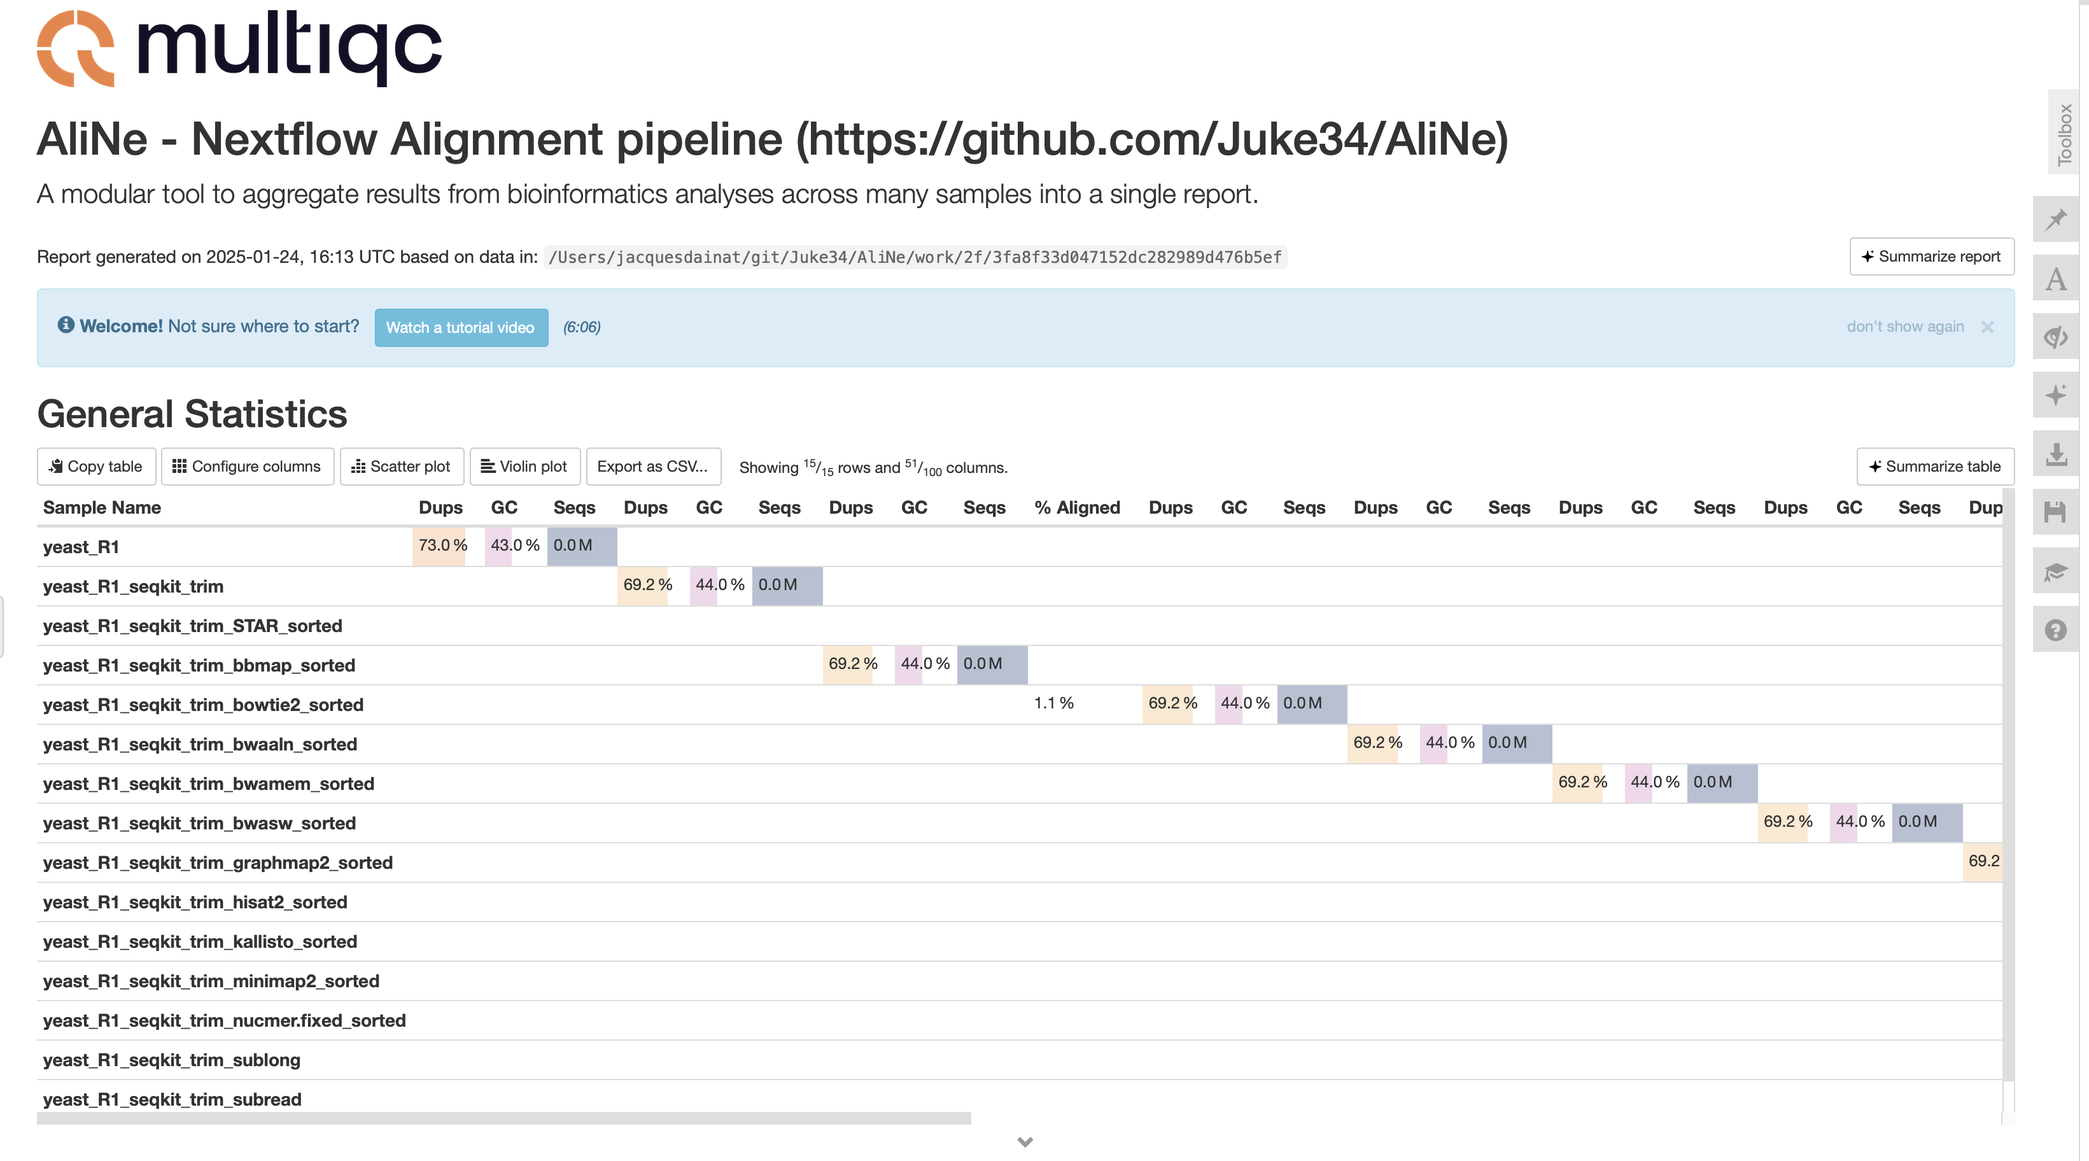
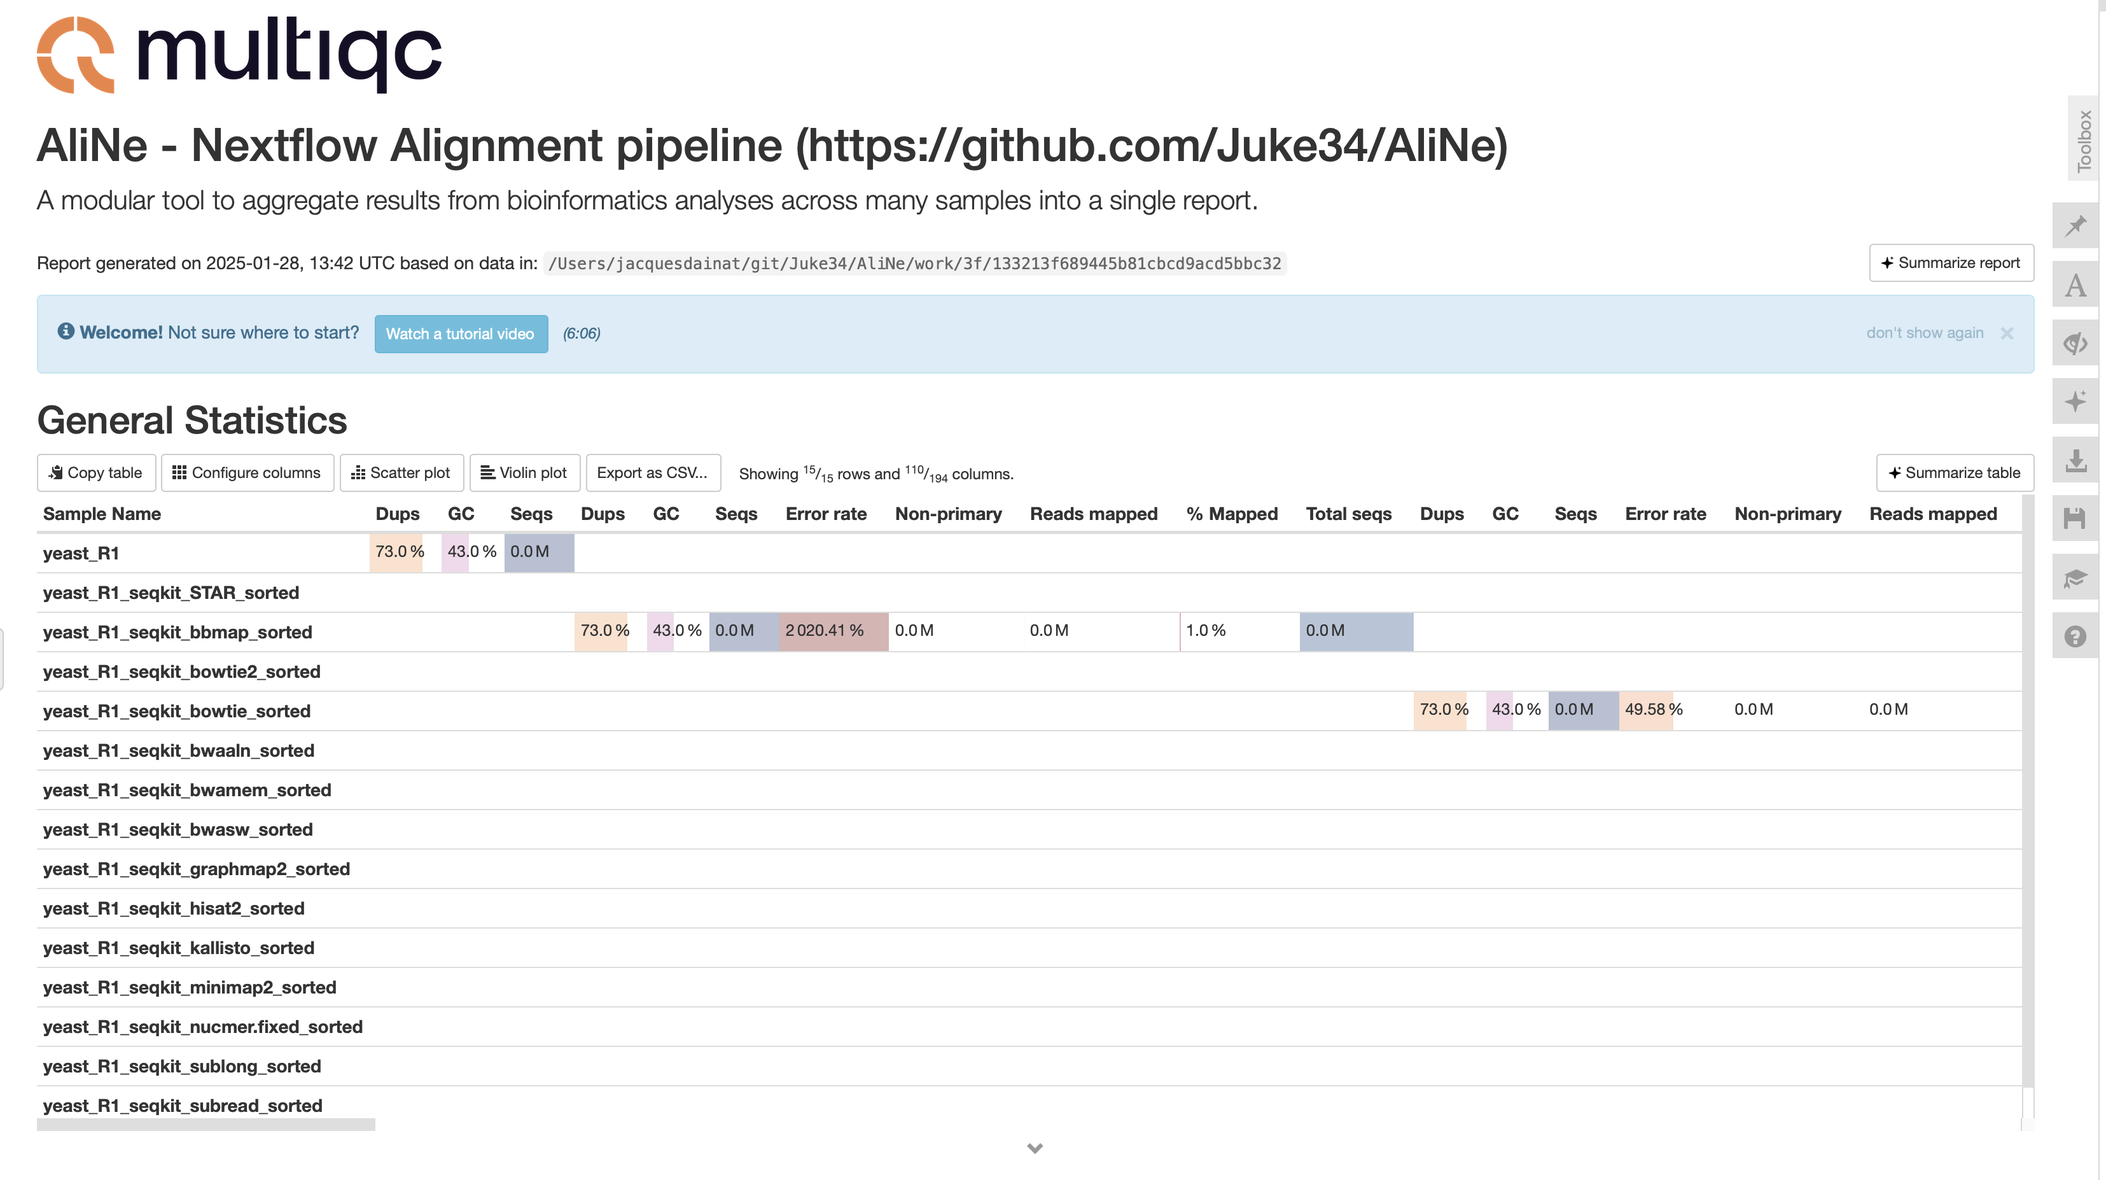
#20 add samtools stats and provide more information about statistics

diff --git a/README.md b/README.md
@@ -222,7 +222,7 @@ Please follow the instructions at the [Singularity website](https://docs.sylabs.
 You can first check the available options and parameters by running:
 
 ```bash
-nextflow run Juke34/AliNe -r v1.0.1 --help
+nextflow run Juke34/AliNe -r v1.1.0 --help
 ```
 
 ### Profile
@@ -234,7 +234,7 @@ To run the workflow you must select a profile according to the container platfor
 The command will look like that: 
 
 ```bash
-nextflow run Juke34/AliNe -r v1.0.1 -profile docker <rest of paramaters>
+nextflow run Juke34/AliNe -r v1.1.0 -profile docker <rest of paramaters>
 ```
 
 Another profile is available (/!\\ actually not yet implemented):
@@ -244,7 +244,7 @@ Another profile is available (/!\\ actually not yet implemented):
 The use of the `slurm` profile  will give a command like this one:
 
 ```bash
-nextflow run Juke34/AliNe -r v1.0.1 -profile singularity,slurm <rest of paramaters>
+nextflow run Juke34/AliNe -r v1.1.0 -profile singularity,slurm <rest of paramaters>
 ```
 
 ### Example
@@ -254,13 +254,15 @@ Here, we use the docker container platform, remote read and genome files, specif
 
 ```bash
 nextflow run Juke34/AliNe \
-  -r v1.0.1 \
+  -r v1.1.0 \
   -profile docker \
   --reads https://github.com/Juke34/AliNe/raw/refs/heads/main/test/illumina/yeast_R1.fastq.gz \
   --genome https://raw.githubusercontent.com/Juke34/AliNe/refs/heads/main/test/yeast.fa \
   --read_type short_single \
   --aligner bbmap,bowtie2,bwaaln,bwamem,bwasw,graphmap2,hisat2,minimap2,ngmlr,nucmer,star,subread,sublong \
   --trimming_fastp \
+  --fastqc \
+  --samtools_statss \
   --star_options "--genomeSAindexNbases 9"
 ```
 
@@ -271,25 +273,25 @@ Test data are included in the AliNe repository in the `test` folder.
 Test with short single reads:
 
 ```bash
-nextflow run -profile docker,test_illumina_single Juke34/AliNe -r v1.0.1
+nextflow run -profile docker,test_illumina_single Juke34/AliNe -r v1.1.0
 ```
 
 Test with short paired reads:
 
 ```bash
-nextflow run -profile docker,test_illumina_paired Juke34/AliNe -r v1.0.1
+nextflow run -profile docker,test_illumina_paired Juke34/AliNe -r v1.1.0
 ```
 
 Test with ont reads:
 
 ```bash
-nextflow run -profile docker,test_ont Juke34/AliNe -r v1.0.1
+nextflow run -profile docker,test_ont Juke34/AliNe -r v1.1.0
 ```
 
 Test with pacbio reads:
 
 ```bash
-nextflow run -profile docker,test_pacbio Juke34/AliNe -r v1.0.1
+nextflow run -profile docker,test_pacbio Juke34/AliNe -r v1.1.0
 ```
 
 On success you should get a message looking like this:
@@ -329,6 +331,7 @@ On success you should get a message looking like this:
     Extra steps 
         --trimming_fastp            run fastp for trimming (default: false)
         --fastqc                    run fastqc on raw and aligned reads (default: false)
+        --samtools_stats            run samtools stats on aligned reads (default: false)
         --multiqc_config            path to the multiqc config file (default: config/multiqc_conf.yml)
 
     Aligner specific options
@@ -389,6 +392,12 @@ Here the description of typical ouput you will get from AliNe:
     │       ├── sample1_seqkit_trim_aligner2_sorted.log       # Contains the log of the aligner
     │       └── sample1_seqkit_trim_aligner2_sorted.bam       # Sorted bam output
     │
+    ├─── samtools_stats                                       # Samtools stats folder
+    │   ├── aligner1                                          # Folder with Samtools stats result for aligner1
+    │   │   └── sample1_seqkit_trim_aligner1_sorted.txt       # Samtools stats file for sample1
+    │   └── aligner2                                          # Folder with Samtools stats result for aligner2
+    │       └── sample1_seqkit_trim_aligner2_sorted.txt       # Samtools stats file for sample1
+    |
     ├── fastqc                                                # FastQC statistics folder
     │   ├── raw                                               # Folder with FastQC result for raw data
     │   │   └── fastqc_sample1_raw_logs                       # Folder with FastQC result for raw sample1 data
@@ -414,9 +423,9 @@ Here the description of typical ouput you will get from AliNe:
 
 ### Statistics
 
-In order to compare several aligner output you should activate the `--fastqc` parameter. AliNe will run the FastQC program for each output file, thereafter all FastQC file will be gathered in an html file using MultiQC. The resulting file called `multiqc_report.html` can be found in <outdir>/MultiQC ( <outdir> by default is called `alignment_results` and can be setup using `--outdir` AliNe parameter).
+#### FastQC
 
-To compare the output of multiple aligners, you should enable the `--fastqc` parameter. AliNe will execute the FastQC program for each output file. Subsequently, all FastQC reports will be gathered into an HTML file using MultiQC. The resulting file, named `multiqc_report.html`, can be found in the `<output_directory>/MultiQC directory`. By default, the output directory is named `alignment_results`, but this can be customized using the `--outdir` parameter in AliNe.
+To compare the output of multiple aligners, you can enable the `--fastqc` parameter. AliNe will execute the FastQC program for each output file. Subsequently, all FastQC reports will be gathered into an HTML file using MultiQC. The resulting file, named `multiqc_report.html`, can be found in the `<output_directory>/MultiQC directory`. By default, the output directory is named `alignment_results`, but this can be customized using the `--outdir` parameter in AliNe.
 
 FastQC collects the following information:  
   * Sequence Counts
@@ -430,9 +439,27 @@ FastQC collects the following information:
   * Overrepresented sequences
   * Adapter Content
 
+Among these metrics, "Sequence Duplication Levels", "Per Sequence GC Content" and "Sequence Count" are reported at the top of the `multiqc_report.html` file in a table called `General Statistics` as "% Dups", "%GC" and "M Seqs" accordingly ([see below](#general-statistics)).
+
+
+#### Samtools stats
+
+To compare the output of multiple aligners, you can enable the `--samtools_stats` parameter. AliNe will execute the Samtools stats program for each alignment file. Subsequently, all Samtools stats output will be gathered into an HTML file using MultiQC. The resulting file, named `multiqc_report.html`, can be found in the `<output_directory>/MultiQC directory`. By default, the output directory is named `alignment_results`, but this can be customized using the `--outdir` parameter in AliNe.
+
+Samtools stats produces comprehensive statistics, see [here](http://www.htslib.org/doc/samtools-stats.html) for details.
+
+Among all the produceds metrics, "Error rate", "Non-primary", "Reads mapped", "% Mapped", "Total seqs"" are reported at the top of the `multiqc_report.html` file in a table called `General Statistics` ([see below](#general-statistics)).  
+These fields correspond to the following information : 
+
+  * Error rate - The percentage of mismatches between the aligned reads and the reference genome (mismatches (NM) / bases mapped (CIGAR))
+  * Non-primary - Non-primary alignments is the number of reads that are aligned to multiple locations in the reference genome.
+  * Reads mapped - The number of reads that are successfully aligned to the reference genome.
+  * % Mapped - The percentage of total reads that are mapped. Calculated from reads mapped / total sequences
+  * Total seqs - The total number of reads in the BAM
+
 #### General Statistics
 
-"Sequence Duplication Levels", "Per Sequence GC Content" and "Sequence Count" are reported at the top of the `multiqc_report.html` file in a table called `General Statistics` as "% Dups", "%GC" and "M Seqs" accordingly (see below).
+Some information produced via FastQC or Samtools stats are reported at the top of the `multiqc_report.html` file in a table called `General Statistics` (see below):
 
 <img src="img/multiqc.png" />
 
@@ -443,61 +470,66 @@ In order to facilitate the reading of this `General Statistics` you can export t
 install.packages("dplyr")
 install.packages("stringr")
 install.packages("tidyr")
+install.packages("knitr")
 
 # Load necessary libraries
 library(dplyr)
 library(stringr)
 library(tidyr)
+library(knitr)
 
 # Read the TSV file
 file_path <- "general_stats_table.tsv"
 df <- read.delim(file_path, check.names = FALSE)
 
+# clean sample name to remove suffix _*_samtoolsstats
+df$Sample <- df$Sample |> stringr::str_remove_all("_\\d+_samtoolsstats")
+
 # sample name as row name
 rownames(df) <- df$Sample
 
 # remove Sample column and clean up the column names
-tmp <- cbind(ID = rownames(df), stack(df[-1])) |> 
+tableout <- cbind(ID = rownames(df), stack(df[-1])) |> 
   transform(ind = as.character(ind) |> stringr::str_remove_all("\\.\\d+"))
 
 # remove na values
-tmp <- tmp[!is.na(tmp$values),]
+tableout <- tableout[!is.na(tableout$values),]
 # remove . values
-tmp$values <- tmp$values |> stringr::str_remove_all("^\\.$")
+tableout$values <- tableout$values |> stringr::str_remove_all("^\\.$")
 
 # pivot data
-tmp <- tmp |> pivot_wider(id_cols = ID , names_from = ind, values_from = values, 
+tableout <- tableout |> pivot_wider(id_cols = ID , names_from = ind, values_from = values, 
               values_fn = \(x) paste(unique(x), collapse = ""))
 
-# print only 4 first columns
-tmp[1:4]
+# print with nice output
+knitr::kable(tmp)
 ```
 
 You will get a table similar to this one:  
 
 ```
-   ID                                       Dups              GC    Seqs                  
-   <chr>                                    <chr>             <chr> <chr>                 
- 1 yeast_R1                                 73.01             43    0.01                  
- 2 yeast_R1_seqkit_trim                     69.21661409043114 44    0.007607999999999999  
- 3 yeast_R1_seqkit_trim_STAR_sorted         69.54090258811289 44    0.007689              
- 4 yeast_R1_seqkit_trim_bbmap_sorted        69.21661409043114 44    0.007607999999999999  
- 5 yeast_R1_seqkit_trim_bowtie2_sorted      69.21661409043114 44    0.007607999999999999  
- 6 yeast_R1_seqkit_trim_bwaaln_sorted       69.21661409043114 44    0.007607999999999999  
- 7 yeast_R1_seqkit_trim_bwamem_sorted       69.18933123111286 44    0.007611              
- 8 yeast_R1_seqkit_trim_bwasw_sorted        69.23279033105622 44    0.007612              
- 9 yeast_R1_seqkit_trim_graphmap2_sorted    69.21661409043114 44    0.007607999999999999  
-10 yeast_R1_seqkit_trim_hisat2_sorted       69.21661409043114 44    0.007607999999999999  
-11 yeast_R1_seqkit_trim_kallisto_sorted     69.21661409043114 44    0.007607999999999999  
-12 yeast_R1_seqkit_trim_minimap2_sorted     69.63058976020739 44    0.007715              
-13 yeast_R1_seqkit_trim_nucmer.fixed_sorted 64.70588235294117 42    0.00016999999999999999
-14 yeast_R1_seqkit_trim_sublong             53.23343848580442 44    0.007607999999999999  
-15 yeast_R1_seqkit_trim_subread             69.21661409043114 44    0.007607999999999999  
+|ID                                  |Dups              |GC |Seqs                 |Error rate          |Non-primary            |Reads mapped            |% Mapped           |Total seqs |
+|:-----------------------------------|:-----------------|:--|:--------------------|:-------------------|:----------------------|:-----------------------|:------------------|:----------|
+|yeast_R1                            |73.01             |43 |0.01                 |                    |                       |                        |                   |           |
+|yeast_R1_seqkit_STAR_sorted         |73.22686241444302 |43 |0.010081             |0                   |0.00008099999999999999 |0.000096                |0.96               |0.01       |
+|yeast_R1_seqkit_bbmap_sorted        |73.01             |43 |0.01                 |2020.4080000000001  |0                      |0.000099                |0.9900000000000001 |0.01       |
+|yeast_R1_seqkit_bowtie2_sorted      |73.01             |43 |0.01                 |11.46977            |0                      |0.00008599999999999999  |0.86               |0.01       |
+|yeast_R1_seqkit_bowtie_sorted       |73.01             |43 |0.01                 |49.57576            |0                      |0.000032999999999999996 |0.33               |0.01       |
+|yeast_R1_seqkit_bwaaln_sorted       |73.01             |43 |0.01                 |0                   |0                      |0                       |0                  |0.01       |
+|yeast_R1_seqkit_bwamem_sorted       |72.98080767692923 |43 |0.010003999999999999 |0.37602579999999997 |0                      |0.001914                |19.139999999999997 |0.01       |
+|yeast_R1_seqkit_bwasw_sorted        |73.0288797841511  |43 |0.010007             |0.2639272           |0                      |0.0018369999999999999   |18.357149995003496 |0.010007   |
+|yeast_R1_seqkit_graphmap2_sorted    |73.01             |43 |0.01                 |0                   |0                      |0                       |0                  |0.01       |
+|yeast_R1_seqkit_hisat2_sorted       |73.01             |43 |0.01                 |0                   |0                      |0.000004                |0.04               |0.01       |
+|yeast_R1_seqkit_kallisto_sorted     |73.01             |43 |0.01                 |0                   |0                      |0.00181                 |18.099999999999998 |0.01       |
+|yeast_R1_seqkit_minimap2_sorted     |73.28848436881678 |43 |0.010107999999999999 |0.3211603           |0.000108               |0.000252                |2.52               |0.01       |
+|yeast_R1_seqkit_nucmer.fixed_sorted |64.73988439306359 |42 |0.000173             |0.2809365           |0                      |0.000169                |100                |0.000169   |
+|yeast_R1_seqkit_sublong_sorted      |45.26             |43 |0.01                 |0                   |0                      |0.0012339999999999999   |12.34              |0.01       |
+|yeast_R1_seqkit_subread_sorted      |73.01             |43 |0.01                 |0.1395645           |0                      |0.00156                 |15.6               |0.01       |
 ```
 
 ## Integrating AliNe in another nf pipeline
 
-In nextflow it is possible to call external workflow like AliNe from another workflow.
+In Nextflow it is possible to call external workflow like AliNe from another workflow.
 This require to write a dedicated process that will call AliNe and get back the results.
 A complete guide how to do so is axailable [here](https://github.com/mahesh-panchal/nf-cascade?tab=readme-ov-file)
 

diff --git a/paper/paper.md b/paper/paper.md
@@ -20,14 +20,14 @@ bibliography: paper.bib
 
 Alignment of sequencing reads against a reference genome is a fundamental step in many bioinformatics workflows. Aligner performance varies by speed, memory efficiency, and accuracy, with some tailored to specific sequencing technologies and others more versatile, which makes the selection of an appropriate tool context-dependent. To streamline this process, we present AliNe (Alignment in Nextflow), a flexible and efficient read alignment pipeline built on the Nextflow framework [@nextflow]. AliNe contains a broad range of commonly used aligners, and is designed to accommodate any high-throughput sequencing projects.
 
-AliNe supports short reads (both paired-end and single-end) as well as long reads generated by PacBio and Oxford Nanopore Technologies (ONT). It currently supports 16 widely used alignment tools, including BBMap [@bbmap], Bowtie [@bowtie], Bowtie2 [@bowtie2], BWA [@bwaaln], BWA-MEM [@bwamem], BWA-SW [@bwasw], GraphMap2 [@graphmap2], HISAT2 [@hisat2], Kallisto [@kallisto], Minimap2 [@minimap2], ngmlr [@ngmlr], novoAlign [@novoalign], nucmer [@nucmer], STAR (single or two-pass mode) [@star], subread [@subread] and sublong [@subread]. These aligners are integrated into a single, easy-to-use workflow, providing a unified entry point for any project requiring alignment and giving users the flexibility to choose the best tool for their specific data and objectives. AliNe is designed to minimize user inputs and avoid common parameter mistakes ( e.g. scoring system, strandedness, orientation).
+AliNe supports short reads (both paired-end and single-end) as well as long reads generated by PacBio and Oxford Nanopore Technologies (ONT). It is designed to minimize user inputs and avoid common parameter mistakes ( e.g. scoring system, strandedness, orientation). It currently supports 16 widely used alignment tools, including BBMap [@bbmap], Bowtie [@bowtie], Bowtie2 [@bowtie2], BWA [@bwaaln], BWA-MEM [@bwamem], BWA-SW [@bwasw], GraphMap2 [@graphmap2], HISAT2 [@hisat2], Kallisto [@kallisto], Minimap2 [@minimap2], ngmlr [@ngmlr], novoAlign [@novoalign], nucmer [@nucmer], STAR (single or two-pass mode) [@star], subread [@subread] and sublong [@subread]. These aligners are integrated into a single, easy-to-use workflow, providing a unified entry point for any project requiring alignment and giving users the flexibility to choose the tool that best suits their specific data and objectives. To facilitate aligner comparison, AliNe provides a comprehensive set of metrics, including computational resource usage (CPU, memory, runtime, and disk I/O) reported by Nextflow, as well as alignment statistics generated by FastQC [@fastqc] and Samtools stats [@samtools].
 
 # Statement of Need
 
 The complexity of sequencing data analysis, especially with the advent of next-generation sequencing (NGS), has created a demand for robust, scalable, and reproducible workflows that can handle large datasets while allowing users to flexibly choose their preferred analysis tools. Numerous bioinformatics analyses rely on read alignment steps that can play a major role in the quality of the downstream results. Each alignment tool may behave differently and have its own strengths. Users may need to try out several alignment tools in order to achieve optimal results specific to a project's requirements. AliNe empowers researchers with a single-entry point for alignment, eliminating the need to juggle between disparate tools. By integrating multiple aligners into a unified pipeline, AliNe simplifies the process of alignment algorithm selection and establishes a standardized workflow that ensures both reproducibility and transparency across analyses
 
 The majority of pipelines integrating read alignment steps are specialized for particular sequencing technologies and types of analyses [@tronflow] [@nfcorernaseq] [@sarek] [@readmapping]. There remains a lack of unified, versatile workflows capable of integrating aligners into a single, user-friendly platform.
-AliNe addresses this challenge by providing a comprehensive, streamlined solution for alignment tasks across a wide range of sequencing technologies, whatever the field of application. Moreover, AliNe can be integrated as a sub-workflow into other Nextflow pipeline [@nfcascade] and provide a standardize step that offer users a wider choice of alignment tools.
+AliNe addresses this challenge by providing a comprehensive, streamlined solution for alignment tasks across a wide range of sequencing technologies, whatever the field of application. Moreover, AliNe can be integrated as a sub-workflow into other Nextflow pipeline and provide a standardize step that offer users a wider choice of alignment tools.
 
 # Workflow Overview
 
